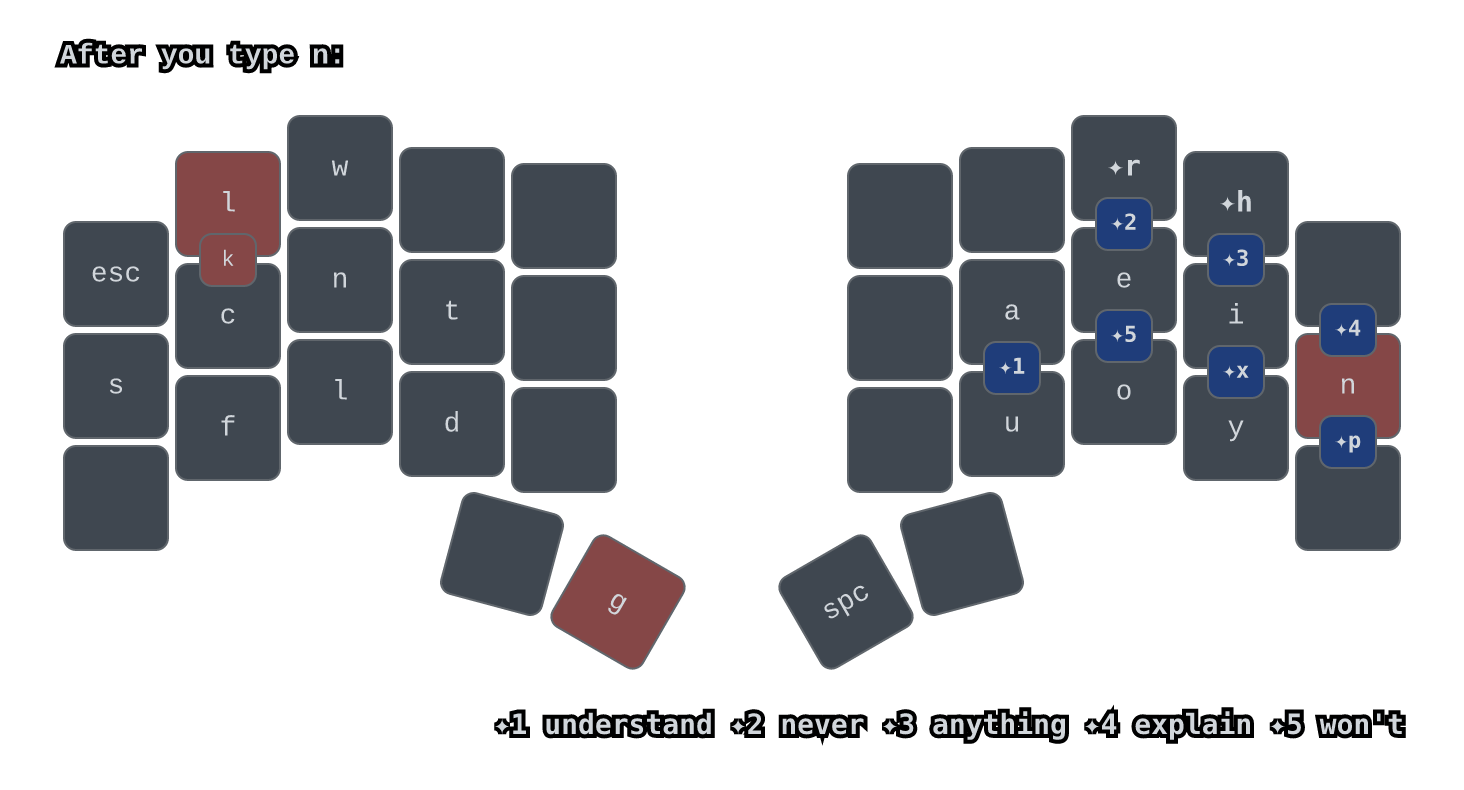
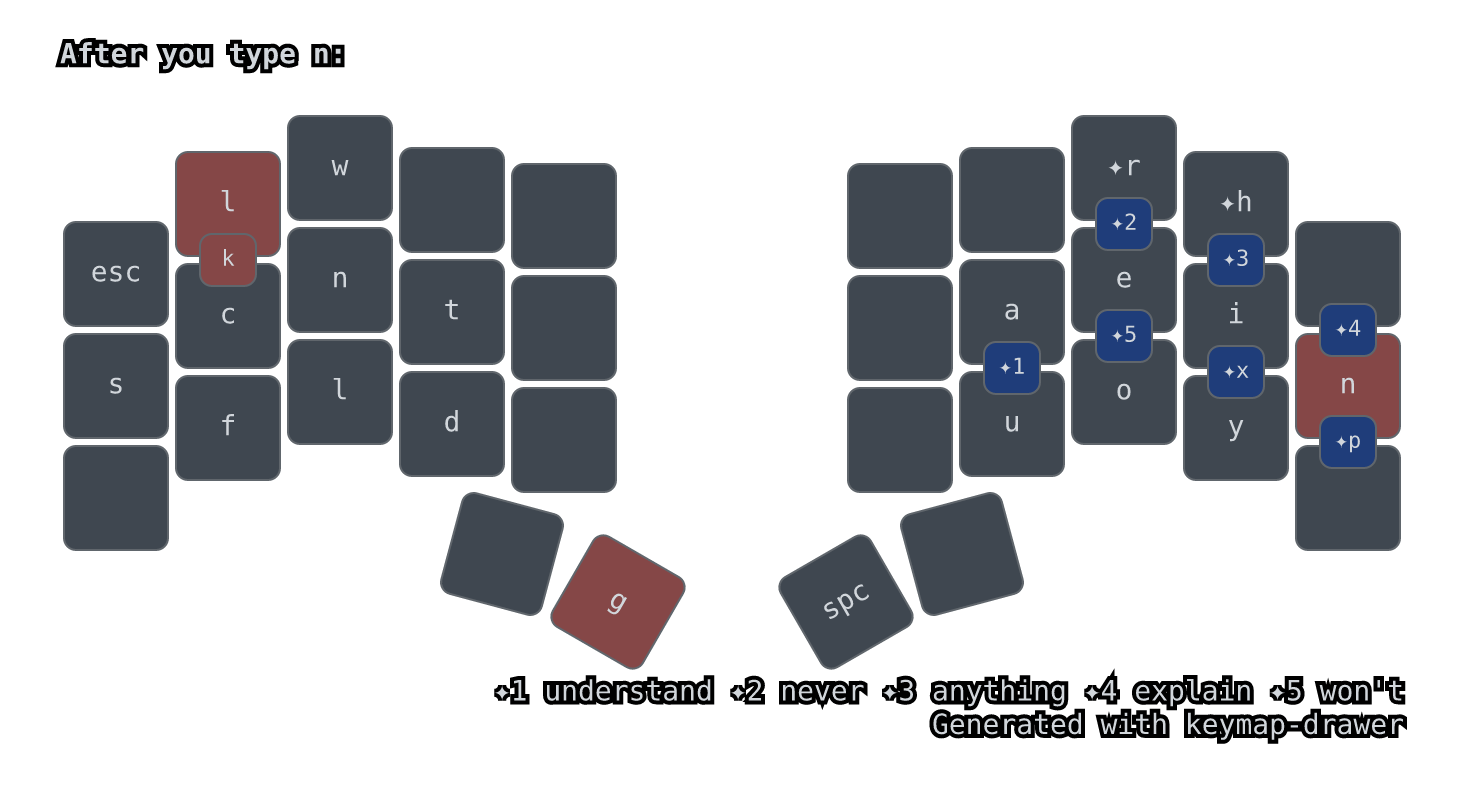
Add after-n promo collateral

diff --git a/blog/README.md b/blog/README.md
@@ -32,6 +32,12 @@ The next two show what the *next* press does right after you type `n`:
 
   ![Everything reachable right after typing n](after-n.svg)
 
+- **[`after-n-promo.svg`](after-n-promo.svg)** — a compact, self-contained introduction: it pairs
+  the base layout with the context-specific state immediately after `n`, where the thumb `r` key
+  produces `ng`. The source is hand-authored; `mise run generate` renders its 2× PNG.
+
+  ![Base layout and the state after typing n](after-n-promo.svg)
+
 - **[`codec.svg`](codec.svg)** — how the magic dictionary is packed to fit flash: the 14 most frequent
   characters get a 4-bit code (two per byte), while a leading nibble of 14 or 15 escapes to a full
   8-bit code (`0xE0`–`0xFF`, 32 slots), so the table roughly halves. See
